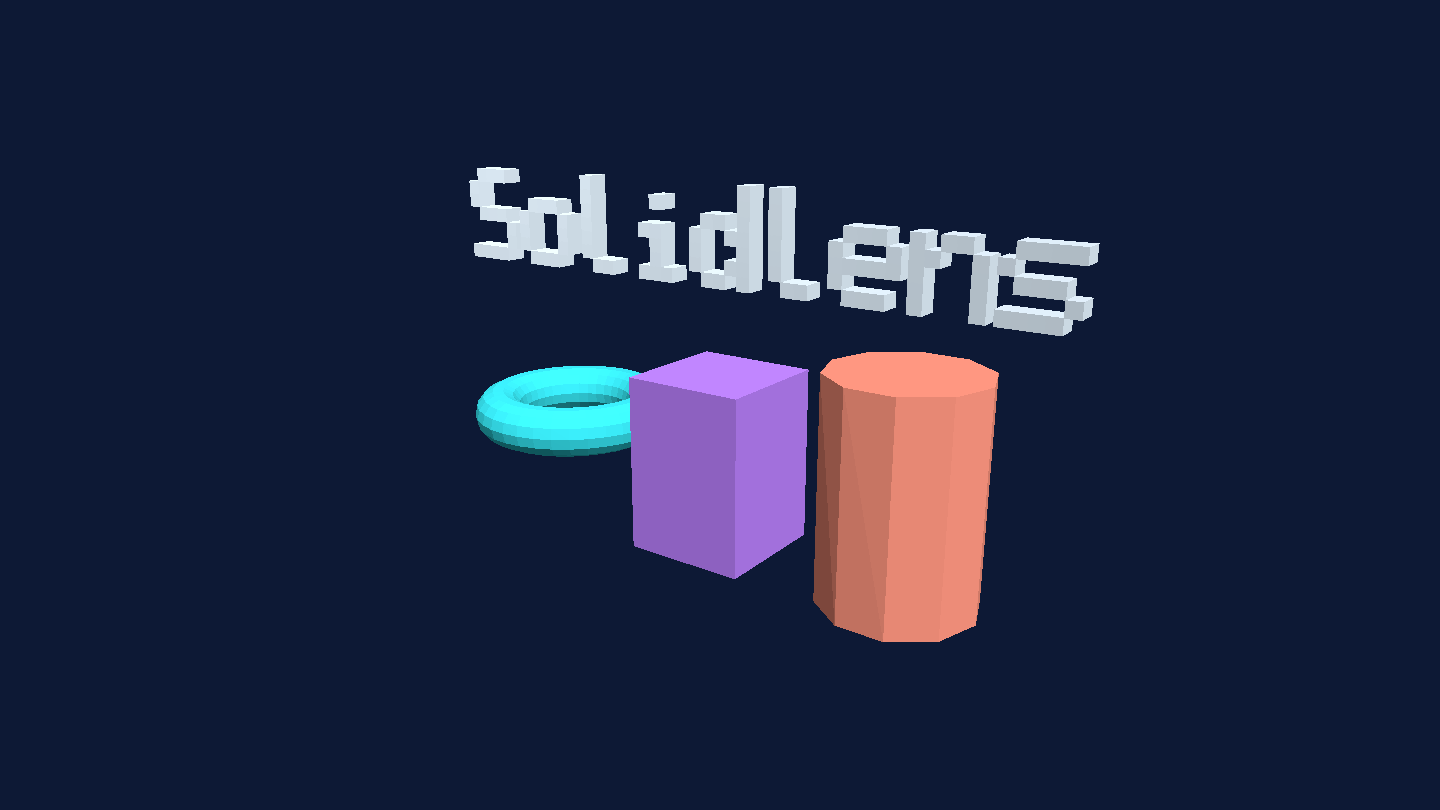
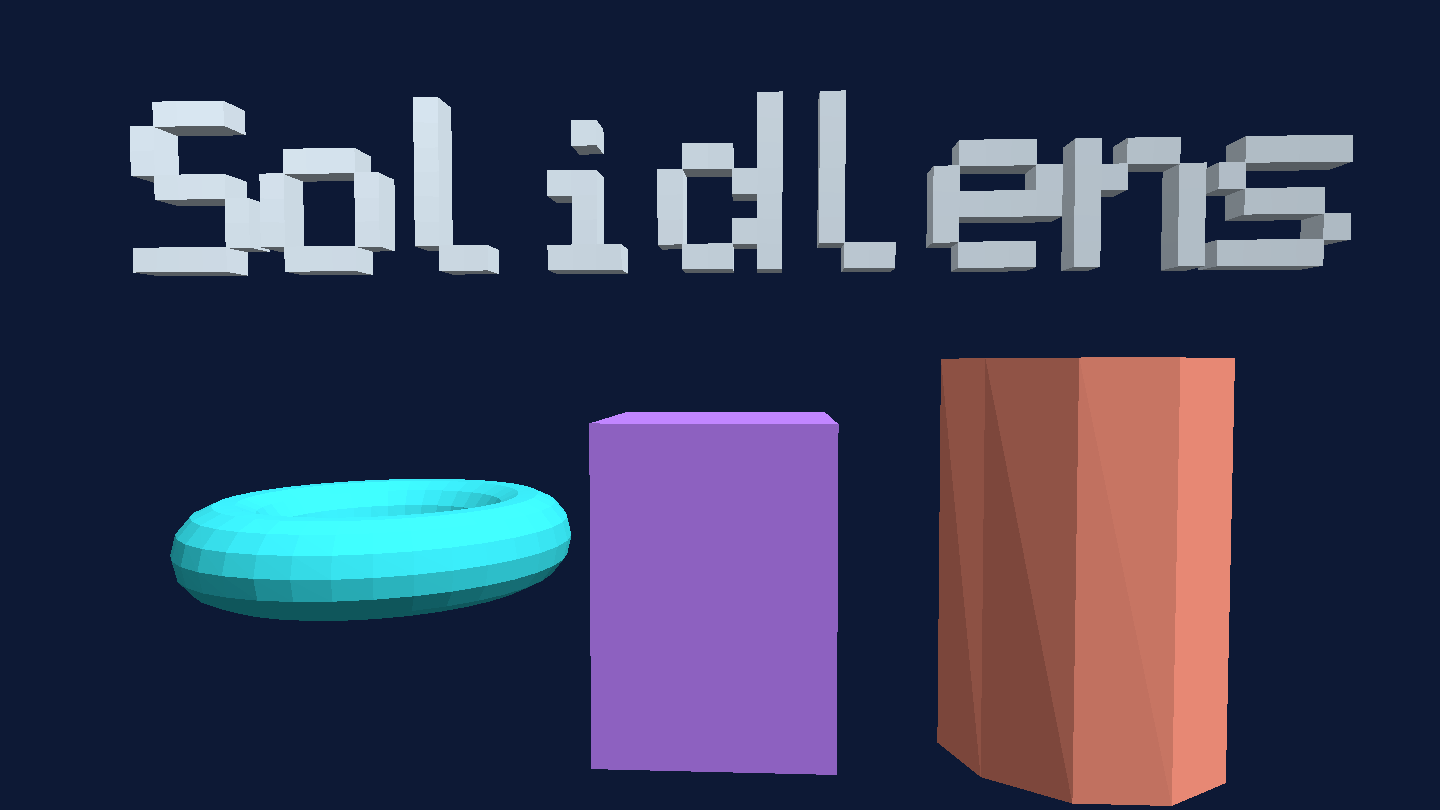
update hero camera

diff --git a/internal/cmd/genimages/main.go b/internal/cmd/genimages/main.go
@@ -85,8 +85,9 @@ func heroScene() (solidlens.Scene, error) {
 		solidlens.Model{Mesh: block, Material: solidlens.Matte(solidlens.RGB(0.47, 0.21, 0.93))},
 		solidlens.Model{Mesh: cylinder, Material: solidlens.Matte(solidlens.RGB(1, 0.31, 0.22))},
 	)
-	scene.Camera.Target = solidlens.Vec{Z: 1.75}
-	scene.Camera.FOV = 43
+	scene.Camera.Position = solidlens.Vec{X: 0.35, Y: -6.2, Z: 2.45}
+	scene.Camera.Target = solidlens.Vec{Z: 2.2}
+	scene.Camera.FOV = 46
 	return scene, nil
 }
 
